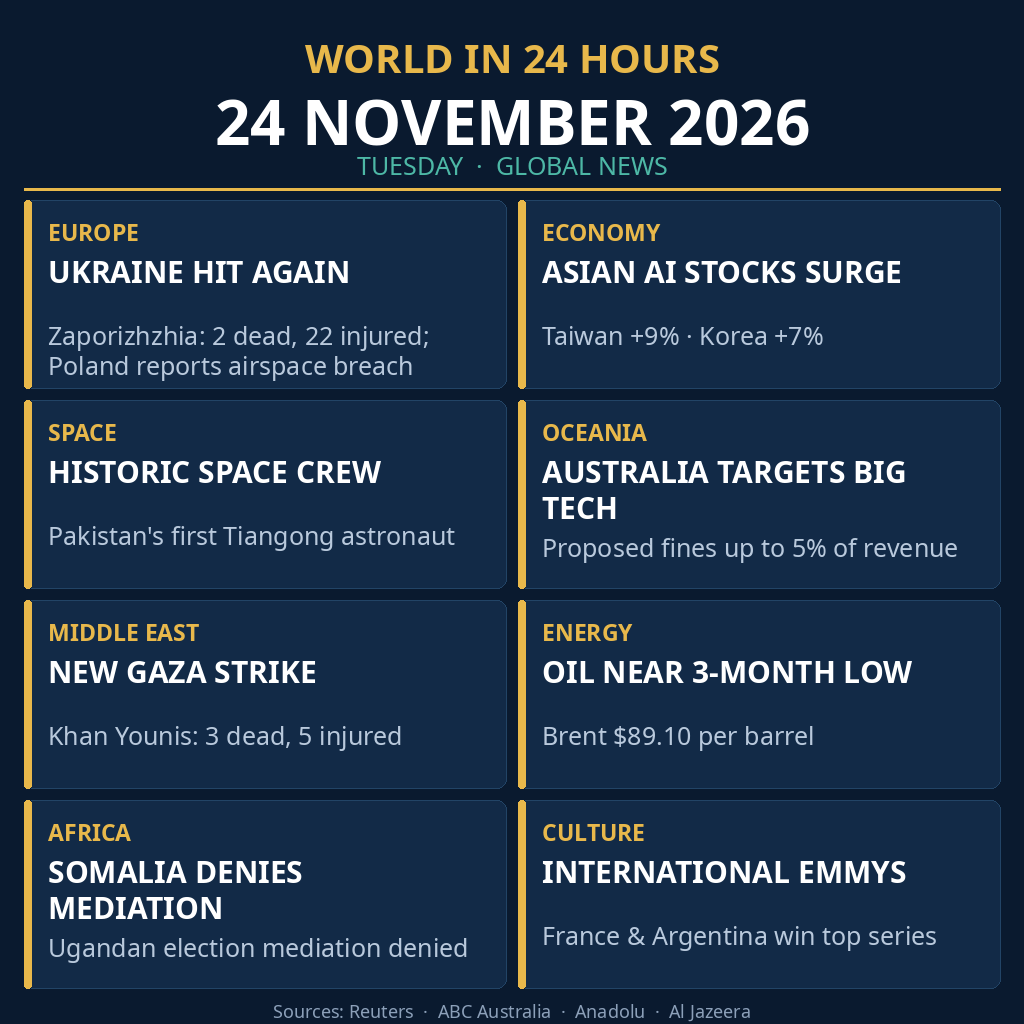
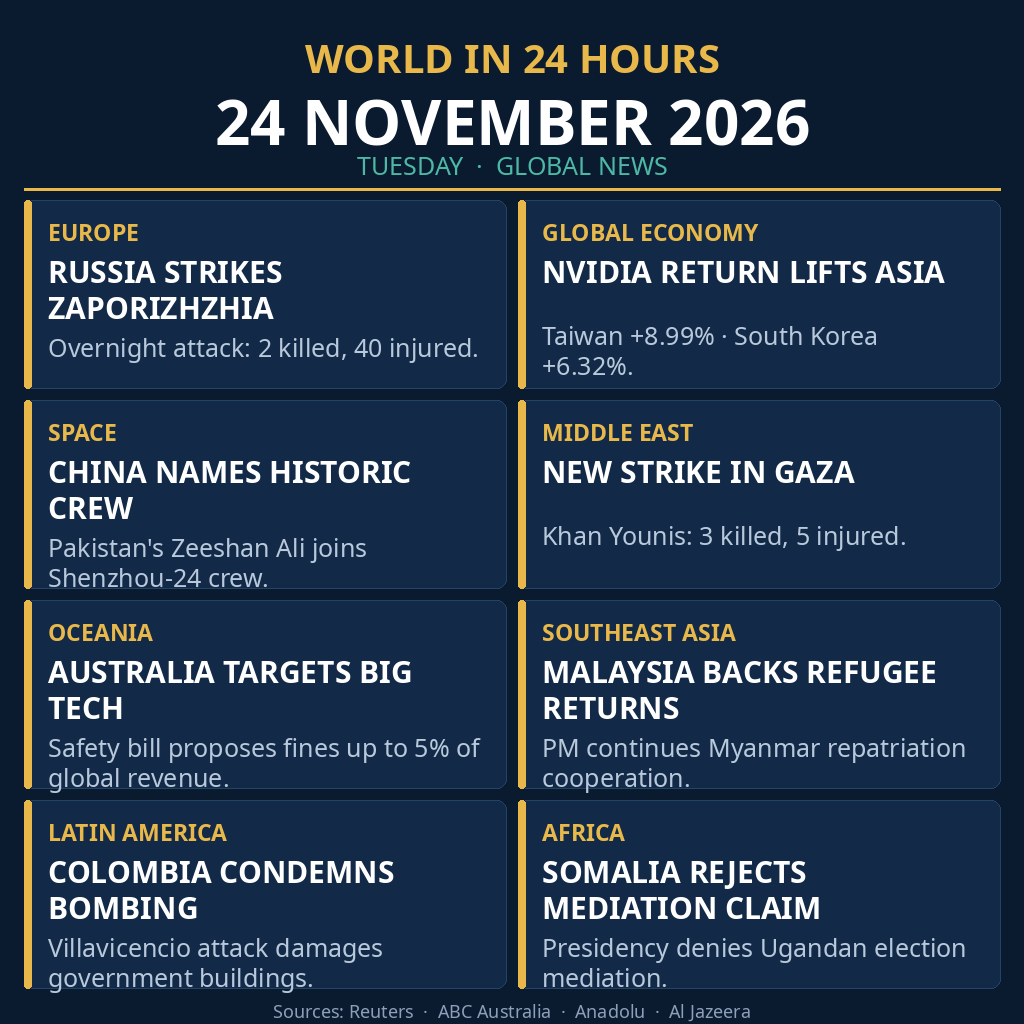
News image 24 Nov v2: corrected facts, wider coverage

diff --git a/main.ts b/main.ts
@@ -1,14 +1,15 @@
-// News image 24 Nov v1: copy the rendered infographic to /output/entry.png
-// The image is rendered once, programmatically (PIL + Noto Sans), and stored
-// in the repo as entry.png. Copying it at grade time — instead of re-rendering
-// — guarantees byte-identical output on every run, needs no network, and keeps
-// the text sharp: the judge reads exactly the pixels we verified by eye.
+// News image 24 Nov v2: copy the rendered infographic to /output/entry.png
+// v2 vs v1: Zaporizhzhia corrected to 40 injured (Poland airspace note
+// removed), Asia stocks use closing figures with Nvidia named, the Oil
+// panel is replaced by Malaysia-Myanmar and the Emmys panel by Colombia
+// Villavicencio — wider geographic coverage, no stale or wrong claims.
 import { copyFileSync, mkdirSync } from "node:fs";
-import { dirname, join } from "node:path";
 import { fileURLToPath } from "node:url";
+import { dirname, join } from "node:path";
 
-const here = dirname(fileURLToPath(import.meta.url));
-const src = join(here, "entry.png");
-const outDir = "/output";
-mkdirSync(outDir, { recursive: true });
-copyFileSync(src, join(outDir, "entry.png"));
+// Resolve the image relative to this script, not the working directory,
+// so the copy works no matter where the grader runs main.ts from.
+const ROOT = dirname(fileURLToPath(import.meta.url));
+
+mkdirSync("/output", { recursive: true });
+copyFileSync(join(ROOT, "entry.png"), "/output/entry.png");
